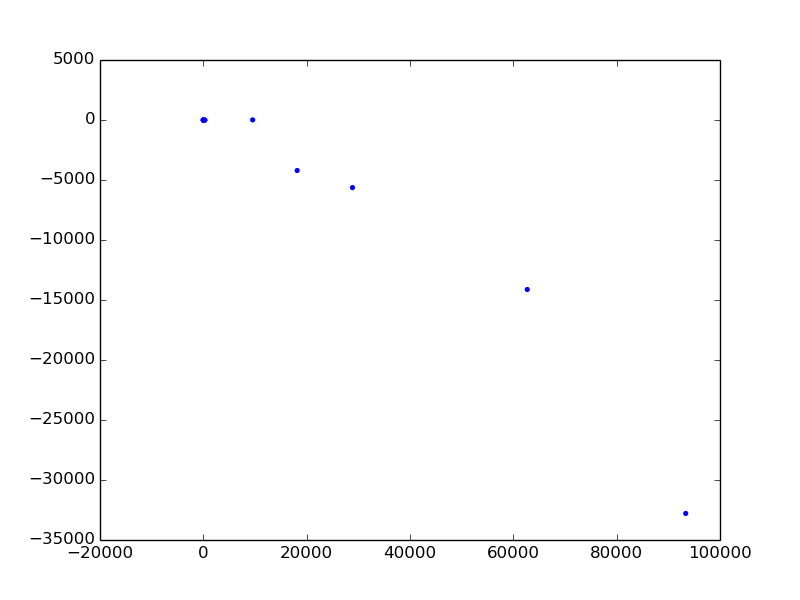
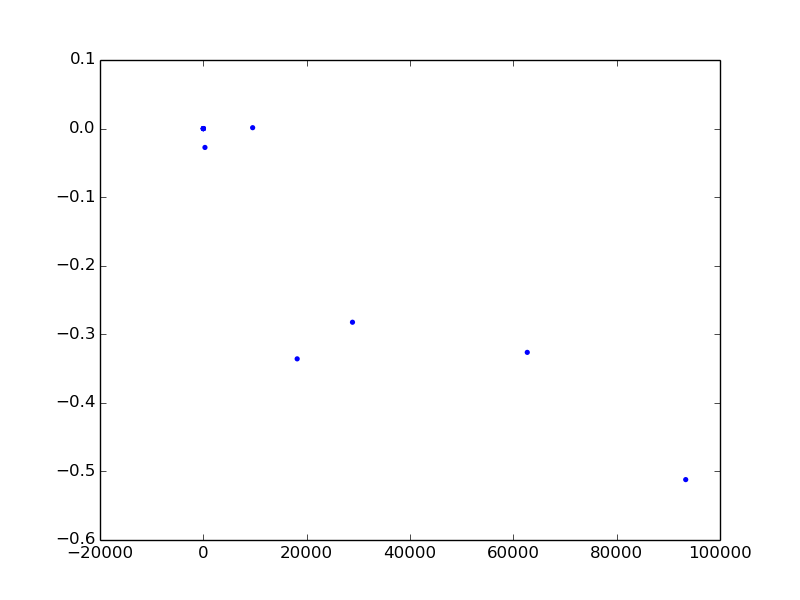
updates

diff --git a/src/main.py b/src/main.py
@@ -40,6 +40,9 @@ fstitchbed = parent_dir(srcdir) + '/fstitch_bed/'
 #DE-Seq files directory
 deseqdir = parent_dir(srcdir) + '/deseq_files/'
 
+#Gene annotations file
+geneannotations = parent_dir(srcdir) + '/FStitch/UCSC_table_gene_annotations/RefSeqHG19.bed'
+
 #User-defined Input:
 #=========================================================================================================
 #Training file directory
@@ -80,7 +83,7 @@ def run():
         bedgraphs = expbeds
     "Running FStitch..."
     # onregions = fstitch.run(fstitchdir,trainingdir,expbeds,fstitchbed)
-    onregions = ['/scratch/Users/joru1876/RNAPIIChIP_Analysis/training_files/training_set_fixed.txt']
+    onregions = [geneannotations]
     "done\nGetting Interval File..."
     counts = get_intervals.run(onregions,expbeds,contbeds,deseqdir,conditions,norm=len(contbeds)>0)
     deseq.run(counts,conditions,deseqdir)

diff --git a/src/deseq.py b/src/deseq.py
@@ -39,7 +39,7 @@ def run(counts,conditions,deseqdir):
             if d[site][-4] == 0 or d[site][-2] == 0:
                 foldchange = 0.0
             else:
-                foldchange = np.log2(d[site][-4]/d[site][-2])
+                foldchange = np.log2(d[site][-2]/d[site][-4])
             x.append(meanexpression) 
             d[site].append(meanexpression)
             y.append(foldchange)
